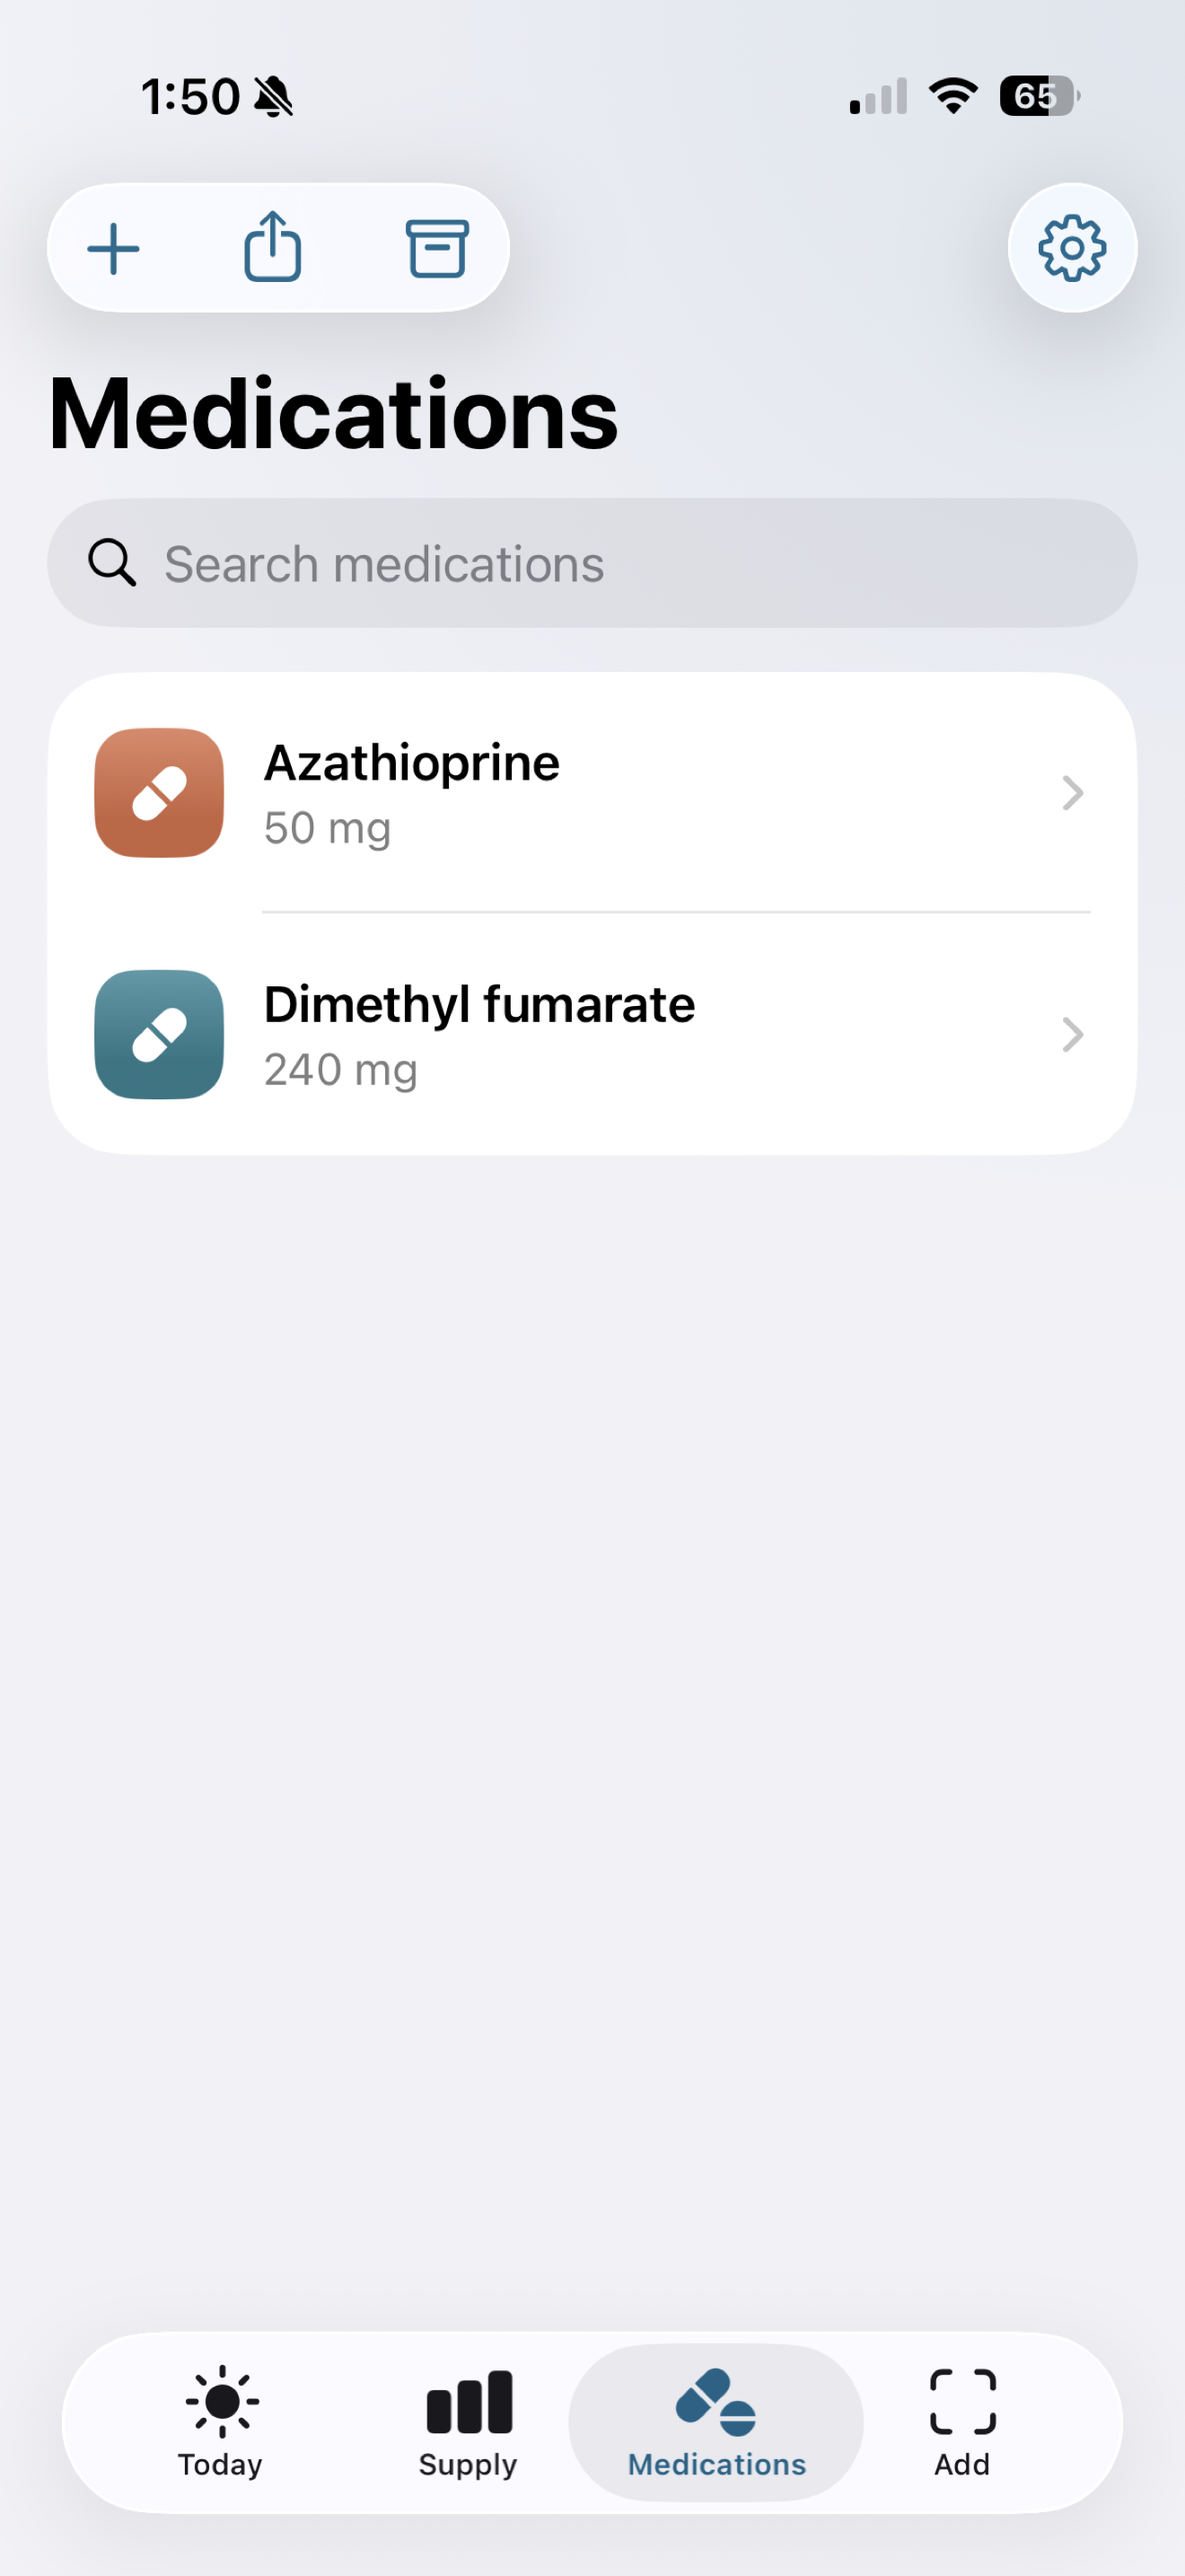
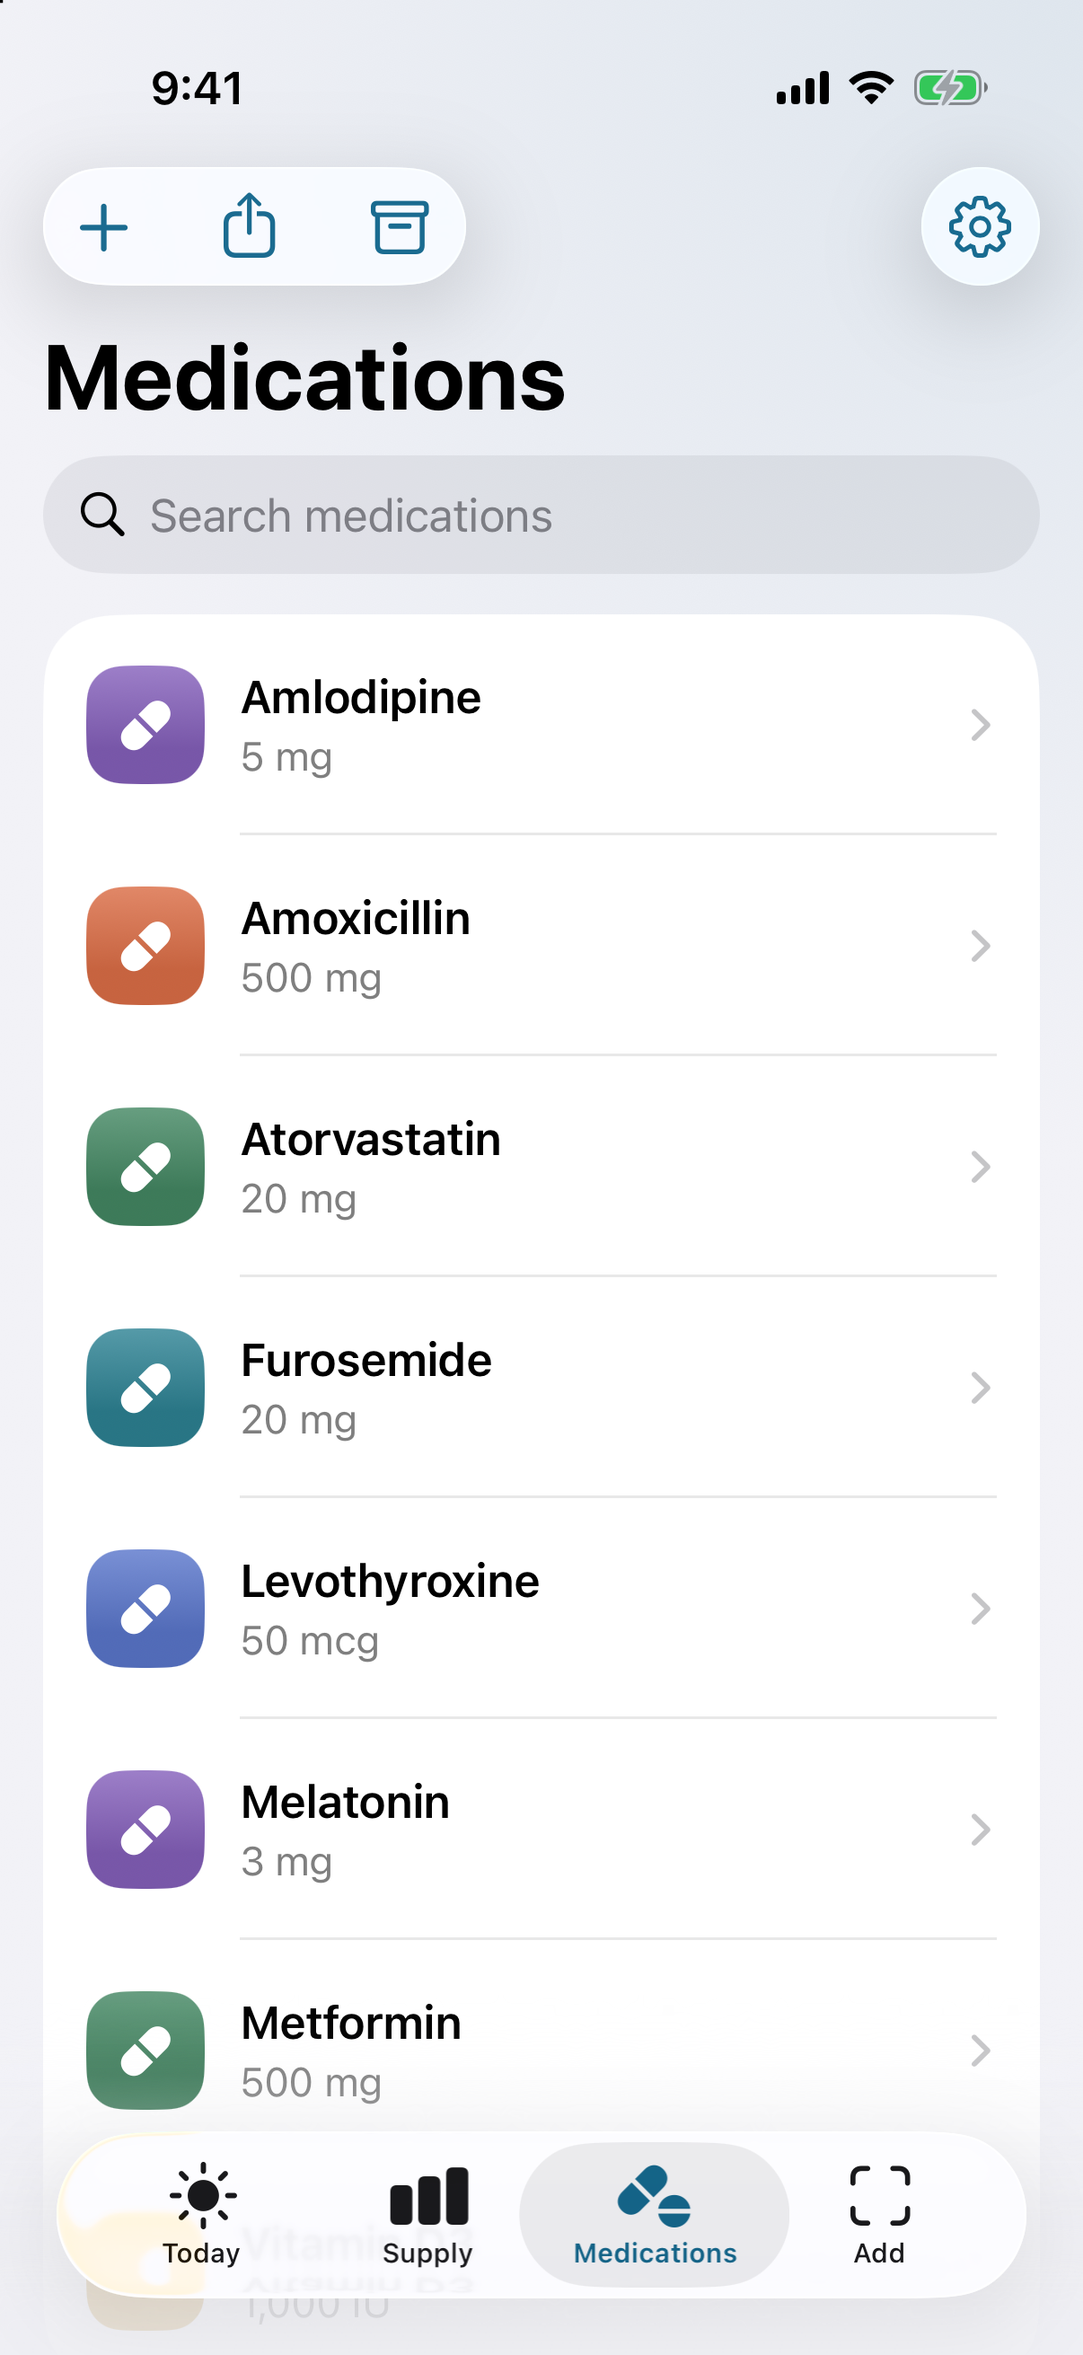
Bring Meds Ahead up to date: nothing leaves your iPhone, and fictional screenshots
The Meds Ahead doorway on /nicholas/ and its story page now match the
updated sparkbiscuit.me/meds page: what the app shows, Why this date?,
NDC identification, and "Nothing leaves your iPhone." The screenshots
were August phone captures with a real medication and dose; they are
replaced under the same names with captures of the app's fictional
demo household.

diff --git a/projects/meds-ahead/index.html b/projects/meds-ahead/index.html
@@ -41,7 +41,7 @@
         </div>
       </div>
       <figure class="story-hero__stage" data-parallax="-24">
-        <img class="screen" src="/assets/apps/meds-supply-660.jpg" alt="Meds Ahead’s Supply view highlights a medication needing attention and another with more supply remaining" width="660" height="1434" fetchpriority="high" />
+        <img class="screen" src="/assets/apps/meds-supply-660.jpg" alt="Meds Ahead’s Supply view: one medication to act on soon, and the rest ranked by when they run out" width="660" height="1434" fetchpriority="high" />
       </figure>
     </header>
 
@@ -50,14 +50,16 @@
         <h2>Keep the changes explainable.</h2>
         <p><strong>Records.</strong> Supply comes from recorded inventory changes and taken doses. Refills, corrections, and dose logs give a count its history, so an estimate has something concrete behind it.<sup><a href="#note-forecast" id="ref-forecast" aria-label="Note 1">1</a></sup></p>
         <p>Dose logging uses a shared schedule engine to identify the scheduled dose across screens and avoid counting the same dose twice.</p>
+        <p>Every run-out date has a <em>Why this date?</em> view that shows the count, refills, and doses behind it.</p>
       </article>
       <article class="decision" data-parallax="22">
         <h2>You confirm what the camera finds.</h2>
         <p><strong>Scanning.</strong> Label text and supported barcodes are recognized on the device. You review the extracted details before saving a medication. Recognition is a starting point for entry, not a substitute for checking the label.</p>
+        <p>When a label prints its NDC, Meds Ahead looks it up in a copy of the FDA’s National Drug Code Directory on the phone, and fills in the exact product only when the rest of the label agrees.</p>
       </article>
       <article class="decision" data-parallax="32">
         <h2>No account to create.</h2>
-        <p><strong>Privacy.</strong> Medication records are stored locally. There are no ads or third-party analytics, and scanned images are not retained by the app. Your records can be included in your own device and iCloud backups.</p>
+        <p><strong>Privacy.</strong> Nothing leaves your iPhone. Medication records are stored on it, there are no ads or third-party analytics, and scanned images are not retained by the app. Your records can be included in your own device and iCloud backups.</p>
         <p>Reminders are scheduled on the phone, with detailed notification text off by default.</p>
       </article>
     </section>

diff --git a/nicholas/index.html b/nicholas/index.html
@@ -52,7 +52,7 @@
         <div class="doorway__copy">
           <p class="app-name">Meds Ahead</p>
           <h2 id="meds-title">Know what runs out next.</h2>
-          <p>I built it because my family needed help coordinating medications and refills. It brings today’s doses, medication records, and supply forecasts together.</p>
+          <p>I built it because my family needed help coordinating medications and refills. It shows which medication runs out next, and why, from the doses, refills, and counts you record. Nothing leaves your iPhone.</p>
           <div class="actions">
             <a class="btn btn--ink" href="https://sparkbiscuit.me/meds/">Visit Meds Ahead</a>
             <a class="text-link" href="/projects/meds-ahead/">The story behind it</a>

diff --git a/CONTENT-SOURCES.md b/CONTENT-SOURCES.md
@@ -82,3 +82,10 @@ Review the local preview. Reconfirm the dated App Store status if publication is
 - For the family to review in `IMAGE-CREDITS.md`, left unchanged:
   - The A380 row still lists “Lukas hero” among its uses. That hero is now a drawn sky; the photograph remains on the flight board and the family map.
   - The Mr. Pizza House row lists the subject as “Cheese pizza”.
+
+## Meds Ahead after 1.2, October 9, 2026
+
+- Nicholas asked that the Meds Ahead copy match the updated sparkbiscuit.me/meds page, which now says plainly that nothing leaves your iPhone. He ruled on October 9 that the line stays unqualified, because the app itself never exports or sends anyone's data.
+- `nicholas/` now says what the app shows (which medication runs out next, and why) and ends on “Nothing leaves your iPhone.”
+- `projects/meds-ahead/` adds two facts from versions 1.1 and 1.2, checked against Sparkbiscuit/meds-ahead at 1633984 (AppStore/SUBMISSION.md and Documentation/PRODUCT.md): the *Why this date?* view behind every run-out date, and NDC identification against the bundled FDA directory, which fills a product only when the label agrees. The privacy decision now opens with “Nothing leaves your iPhone.”
+- Screenshots: the four `assets/apps/meds-*` files were the August 31 phone captures, which showed a real status bar and a transplant medication with its dose. They are replaced, under the same names, with simulator captures of the app's fictional demo household from October 9 (Lisinopril, Metformin, Levothyroxine, Atorvastatin and an Amoxicillin course; 9:41 status bar). `meds-supply-660.jpg` is again a 660 × 1434 `sips` JPEG of `meds-supply.png`. `meds-medications.png` is 1206 × 2622, from a 6.3-inch simulator.
